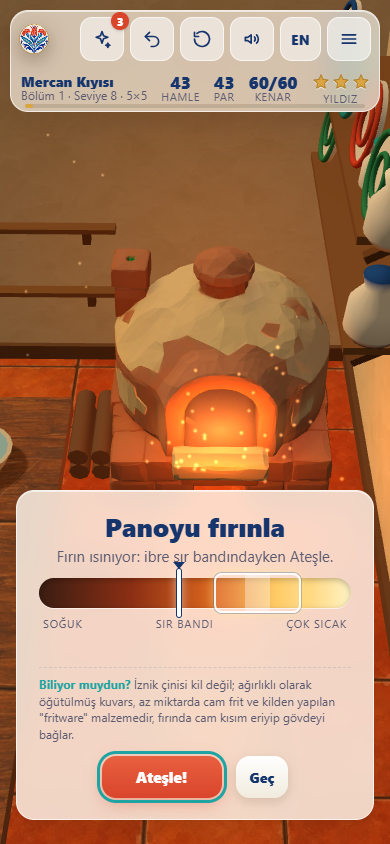
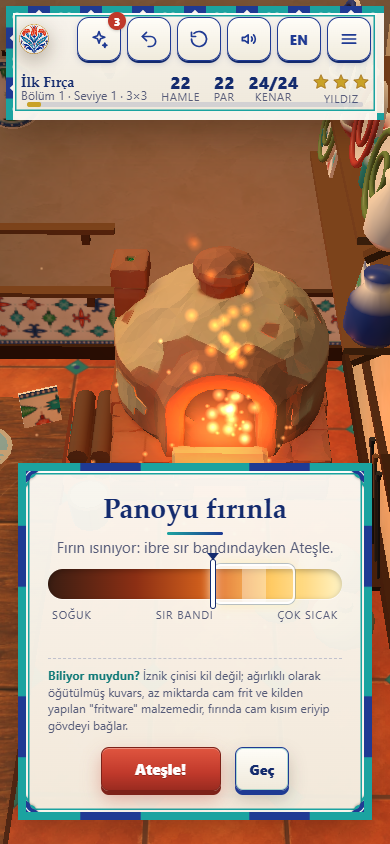
fix(redesign): tile-border the settings and how-to cards, pad the phone top bar; refresh docs screenshots and README
Claude-Session: https://claude.ai/code/session_014vMYwwQ3htV8WjCni8q7av

diff --git a/index.html b/index.html
@@ -254,7 +254,7 @@ kbd{font-family:var(--font); background:#fff; border:1px solid var(--cobalt); bo
   #topbar{padding:4px 6px 8px; gap:6px; top:6px; left:6px; right:6px; border-width:7px; border-image-width:7px;}
   #topbar > .rumi{display:none;}
   #topbar .logo span{display:none;}
-  #topbar .mid{order:3; flex:1 0 100%; justify-content:space-between; padding:4px 2px 0;}
+  #topbar .mid{order:3; flex:1 0 100%; justify-content:space-between; padding:4px 2px 8px;}
   #lvlName{max-width:40vw; font-size:14px;}
   #topbar .right{gap:6px;}
   #topbar .right .wideOnly{display:none;}
@@ -373,7 +373,7 @@ kbd{font-family:var(--font); background:#fff; border:1px solid var(--cobalt); bo
   </div>
 
   <div id="howtoScreen" class="overlay hidden">
-    <div class="card glass howto">
+    <div class="card tilePanel howto">
       <h2 id="howtoTitle"></h2>
       <ul id="howtoList"></ul>
       <button class="btn" id="btnHowtoOk" data-i18n="start">Başla</button>
@@ -391,7 +391,7 @@ kbd{font-family:var(--font); background:#fff; border:1px solid var(--cobalt); bo
   </div>
 
   <div id="settingsScreen" class="overlay dim hidden">
-    <div class="card glass settings">
+    <div class="card tilePanel settings">
       <h2 data-i18n="settings">Ayarlar</h2>
       <div class="srow"><label for="volMaster" data-i18n="masterVolume">Ana ses</label><input type="range" id="volMaster" min="0" max="100" step="5"><output id="volMasterV"></output></div>
       <div class="srow"><label for="volMusic" data-i18n="musicVolume">Müzik</label><input type="range" id="volMusic" min="0" max="100" step="5"><output id="volMusicV"></output></div>

diff --git a/README.md b/README.md
@@ -217,6 +217,25 @@ Upgraded by **Claude Fable 5.1** with Claude Code from [prompts/cini-ustasi-v2.m
 The in-game facts (kiln step, excavation intro, craft notes, title line) come from the research pool behind the brief;
 the source of each is noted in a code comment next to the `FACTS` table in `index.html`.
 
+### Redesign (2026-11)
+
+A visual pass by **Claude Fable 5.1** with Claude Code; the puzzle core, levels, par, stars, bot, saves and flags are
+unchanged. Art direction: an İznik palette (cobalt `#1F3A93`, turquoise `#1BA3A0`, coral `#C0392B`, sage `#6E8B3D`,
+glaze white `#F7F4EC`) in a warm, lamp-lit workshop, with every panel framed like a tile.
+
+![Level 22 before and after the redesign](docs/redesign-before-after.png)
+
+- Lighting: a warm key light with a lamp glow over the table and a cooler fill from the window; the kiln mouth lights
+  its surroundings and sheds a plume of ember particles.
+- Environment: a glazed terracotta floor with turquoise inserts, a tile dado along the walls, a paint cabinet with glaze
+  bowls, plates and a pitcher on the shelves, a brick kiln base and firing tools, the cat on its stool.
+- UI skin: tile-bordered panels with rumi spandrels in the corners (SVG) for the title, pause, settings, how-to, level
+  and collection screens, the kiln step and the level-complete card; a tile band as the top bar with the star meter
+  under it; cobalt primary and cream secondary buttons; the phone portrait and landscape layouts were re-checked.
+- Measured on an Intel UHD 620 at 1280x720: 60 fps before and after; draw calls 46 -> 58 on level 10, 37 -> 49 on
+  level 22, 21 -> 32 on the title. The `?auto` bot clears all 30 levels with 0 JS errors with and without the asset
+  files; `?lang=en` checked, and the low-quality path is the one the phone shots use.
+
 Çini Ustası is part of the **Claude Game Arena** series, where each game is built by a Claude model from one prompt.
 The other games: [Hisar](https://furkiozknn.github.io/kale-savunmasi/) ·
 [Çay Ocağı](https://furkiozknn.github.io/cay-ocagi/) · [Martı](https://furkiozknn.github.io/marti/) ·
